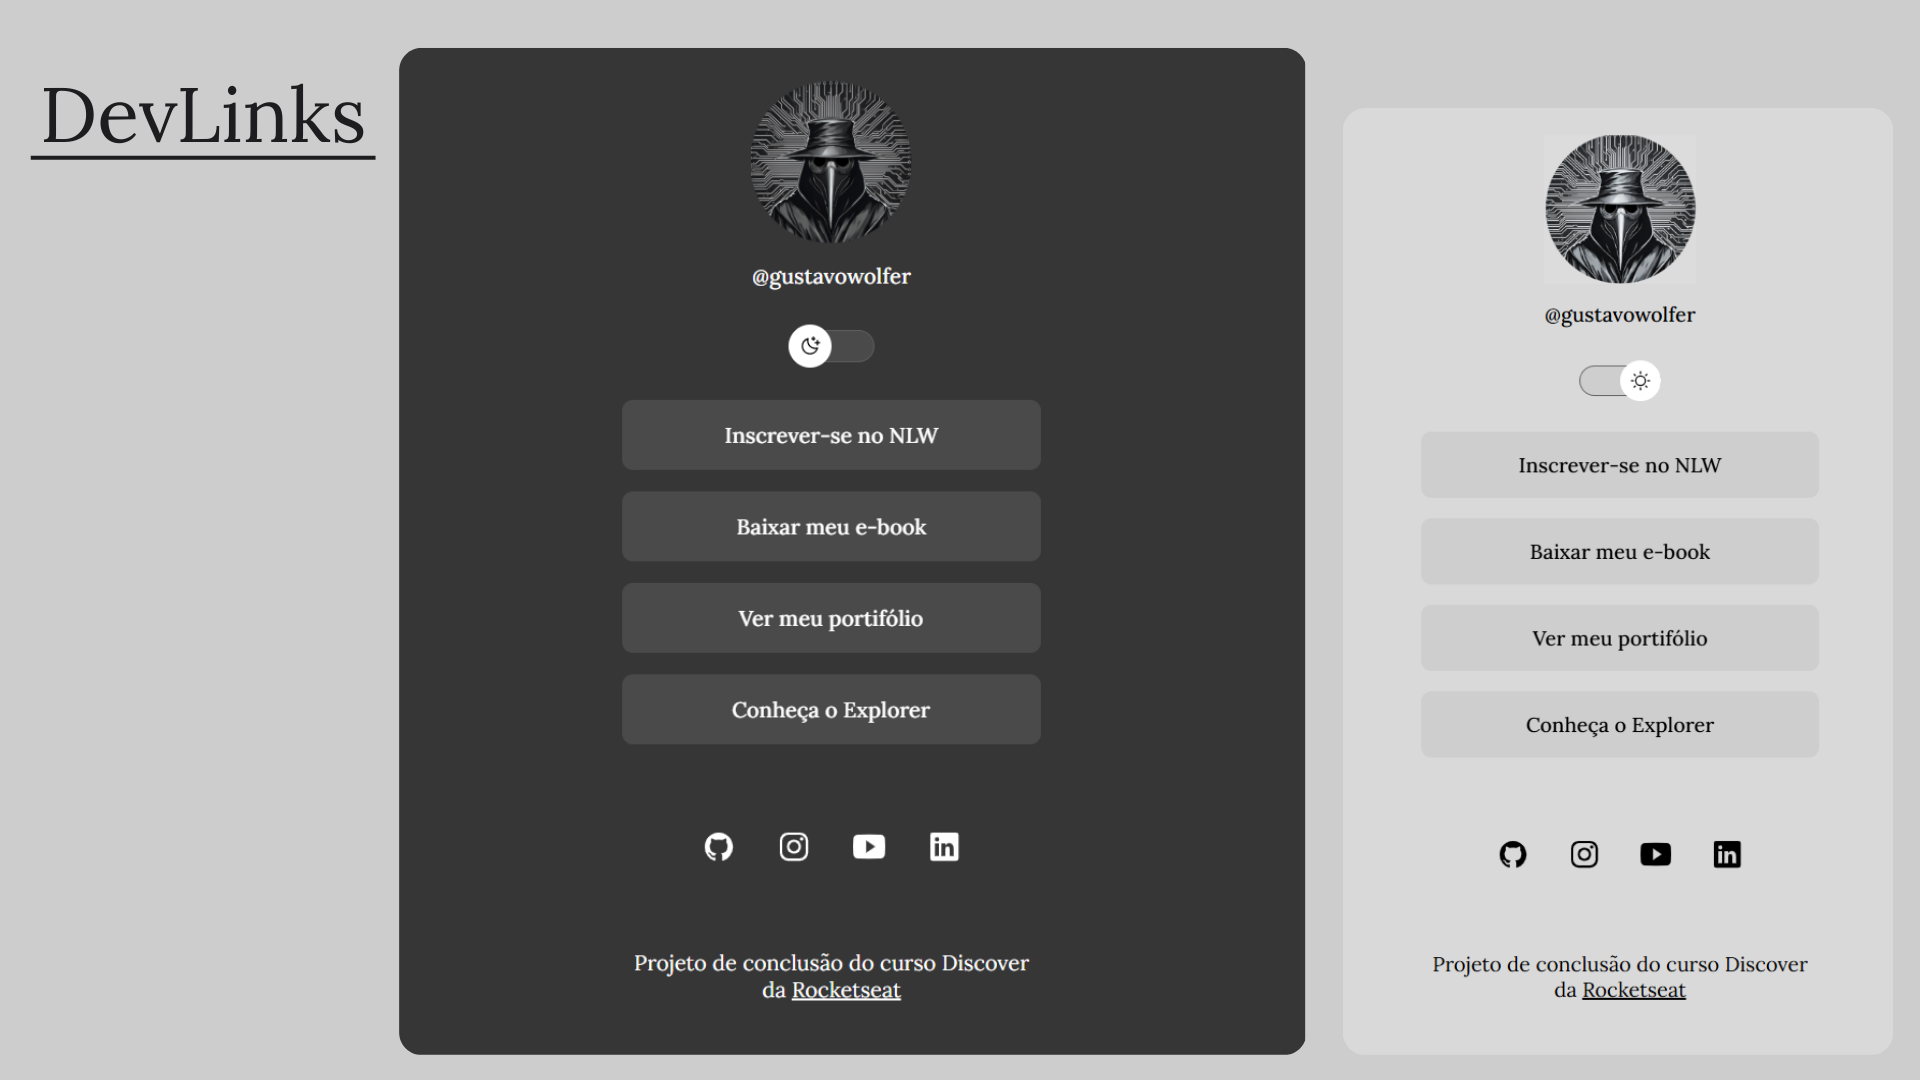
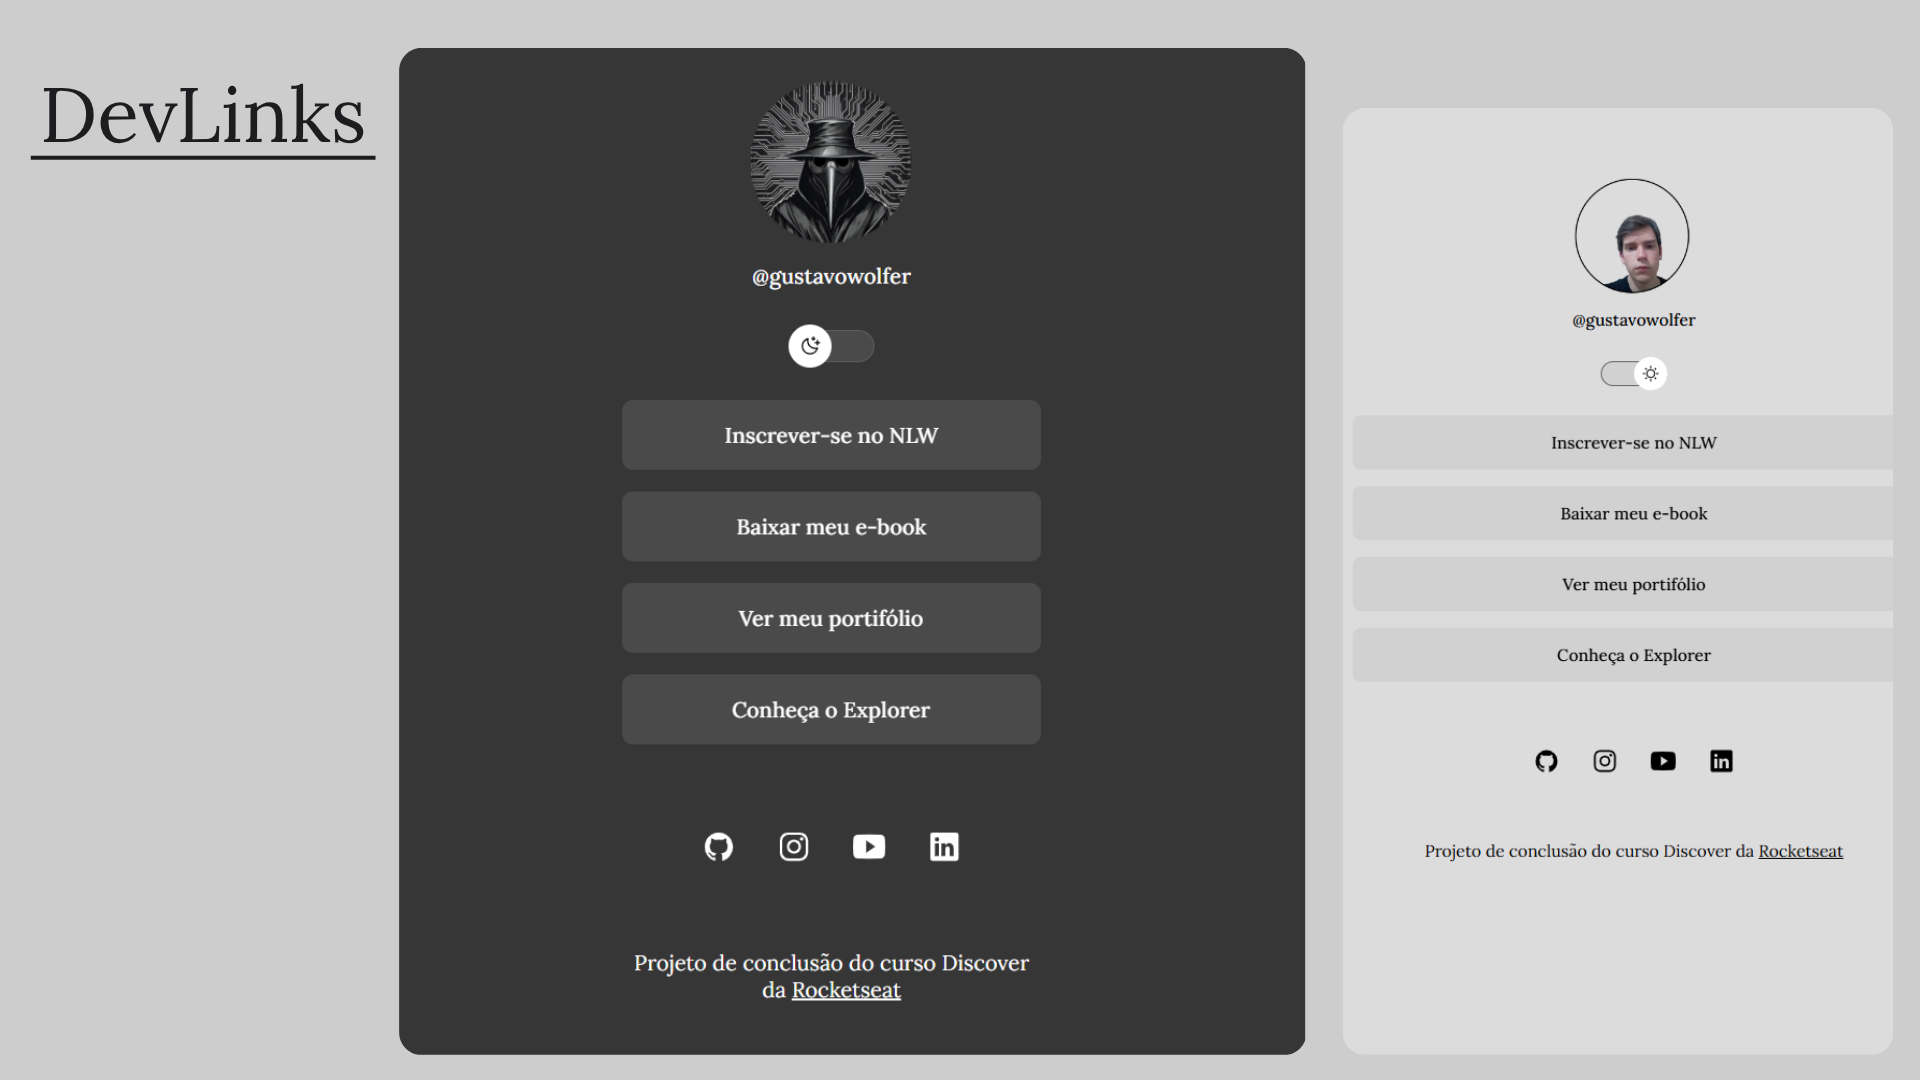
fix: foto no html e no md

diff --git a/script.js b/script.js
@@ -4,8 +4,8 @@ function toggleMode() {
   const img = document.querySelector("#profile img")
 
   if (html.classList.contains("light")) {
-    img.setAttribute("src", "./assets/profile.png")
-    img.setAttribute("alt", "Doutor foto filtro branco")
+    img.setAttribute("src", "./assets/Profile.png")
+    img.setAttribute("alt", "Foto de perfil")
   } else {
     img.setAttribute("src", "./assets/avatar.jpg")
     img.setAttribute("alt", "Doutor foto")

diff --git a/index.html b/index.html
@@ -49,7 +49,10 @@
         <a href="#" target="_blank">
           <ion-icon name="logo-youtube"></ion-icon>
         </a>
-        <a href="https://www.linkedin.com/in/gustavo-f-wolfer-771752428/" target="_blank">
+        <a
+          href="https://www.linkedin.com/in/gustavo-f-wolfer-771752428/"
+          target="_blank"
+        >
           <ion-icon name="logo-linkedin"></ion-icon>
         </a>
       </div>
